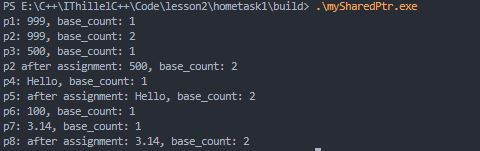
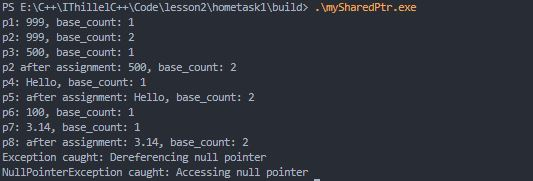
add dereferencing pointer & add custom exception & check for dereferencing and nullpointer exception in main

Changed region(s): [[0.0, 0.0, 0.875, 1.0], [0.6562, 0.9801, 0.6875, 1.0]]

diff --git a/lesson2/hometask1/main.cpp b/lesson2/hometask1/main.cpp
@@ -1,4 +1,12 @@
 #include <iostream>
+#include <stdexcept>
+
+class NullPointerException : public std::runtime_error
+{
+public:
+    NullPointerException(const std::string &message)
+        : std::runtime_error(message) {}
+};
 
 template <typename T>
 class mySharedPtr
@@ -34,6 +42,7 @@ public:
             {
                 delete ptr;
                 delete ref_count;
+                ptr = nullptr;
             }
 
             ptr = otherPtr.ptr;
@@ -45,11 +54,15 @@ public:
 
     T &operator*() const
     {
+        if (ptr == nullptr)
+            throw std::runtime_error("Dereferencing null pointer");
         return *ptr;
     }
 
     T *operator->() const
     {
+        if (ptr == nullptr)
+            throw NullPointerException("Accessing null pointer");
         return ptr;
     }
 
@@ -76,7 +89,7 @@ int main()
     mySharedPtr<std::string> p4(new std::string("Hello"));
     std::cout << "p4: " << *p4 << ", base_count: " << p4.base_count() << std::endl;
 
-    mySharedPtr<std::string> p5=p4;
+    mySharedPtr<std::string> p5 = p4;
     std::cout << "p5: after assignment: " << *p5 << ", base_count: " << p5.base_count() << std::endl;
 
     struct MyClass
@@ -90,8 +103,28 @@ int main()
     mySharedPtr<double> p7(new double(3.14));
     std::cout << "p7: " << *p7 << ", base_count: " << p7.base_count() << std::endl;
 
-    mySharedPtr<double> p8=p7;
+    mySharedPtr<double> p8 = p7;
     std::cout << "p8: after assignment: " << *p8 << ", base_count: " << p8.base_count() << std::endl;
+
+    try
+    {
+        mySharedPtr<int> p9;
+        std::cout << "p9: " << *p9 << ", base_count: " << p9.base_count() << std::endl;
+    }
+    catch (const std::runtime_error &e)
+    {
+        std::cerr << "Exception caught: " << e.what() << std::endl;
+    }
+
+    try
+    {
+        mySharedPtr<std::string> pNull;
+        pNull->size();
+    }
+    catch (const std::runtime_error &e)
+    {
+        std::cerr << "NullPointerException caught: " << e.what() << std::endl;
+    }
 
     return 0;
 }
